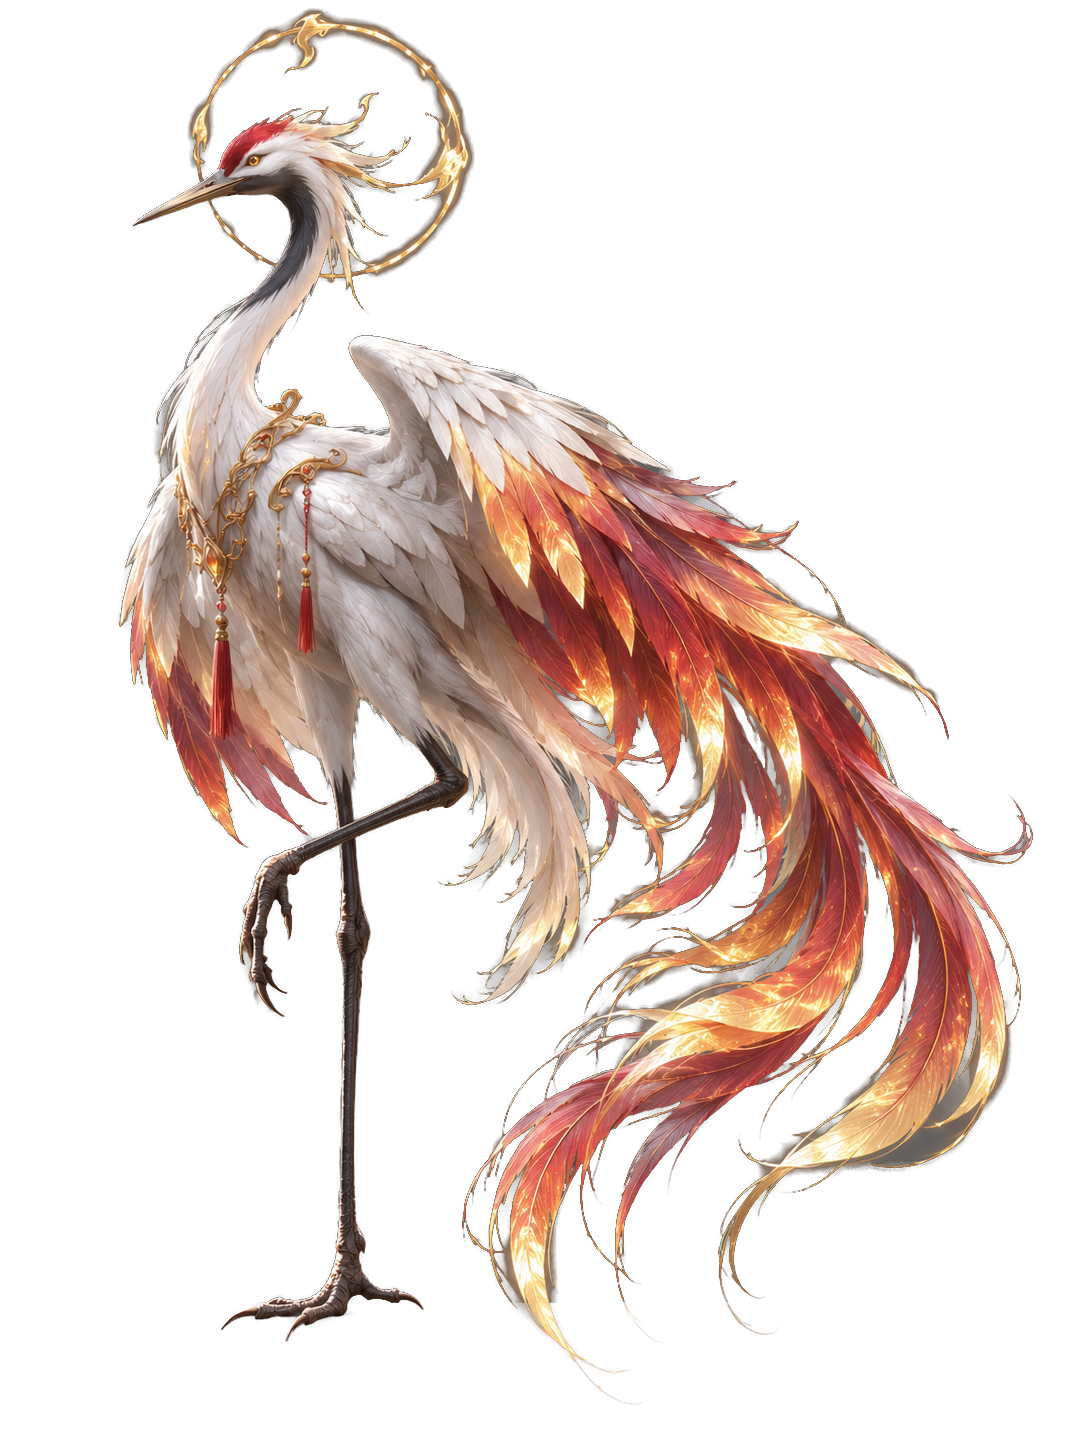
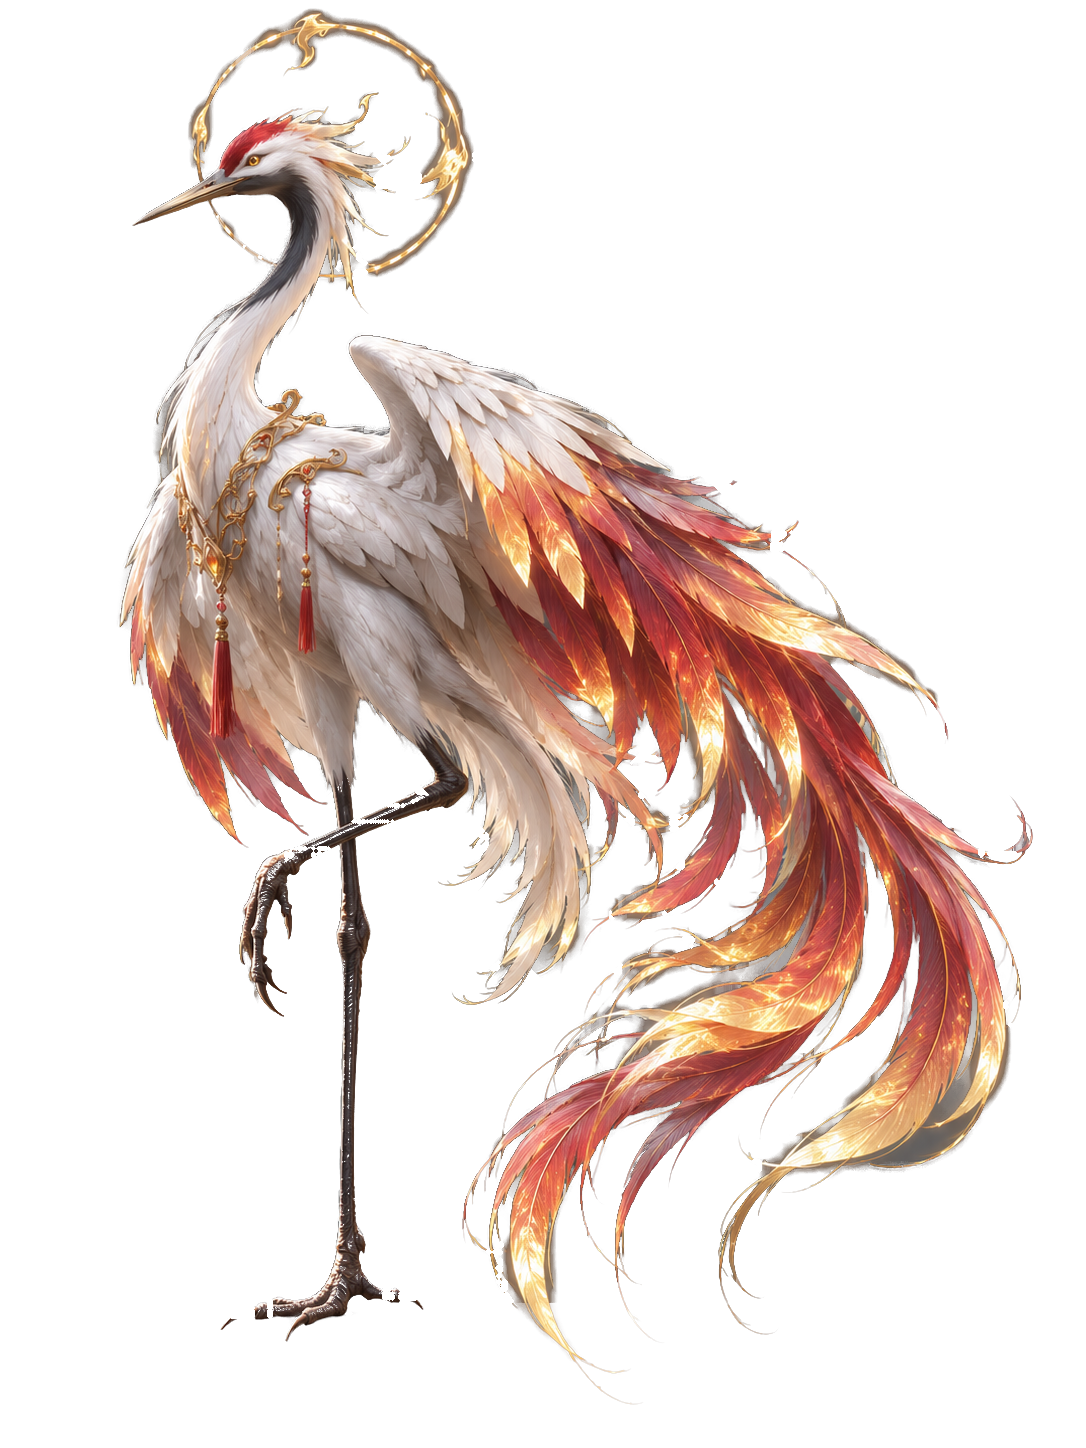
Try-out: painted Mountainback, Tidewhale, Lantern Lord and Scroll Sage
The cut-out now measures the ground against each edge on its own and
drops floor seams the model kept.

Claude-Session: https://claude.ai/code/session_01LS9mE4p1eE4rKWUq3Pq8eE

diff --git a/src/world.ts b/src/world.ts
@@ -17,6 +17,10 @@ import binderMale from "./art/binder-male.webp";
 import shoresArt from "./art/shores.webp";
 import stormhound from "./art/stormhound.webp";
 import sunplume from "./art/sunplume.webp";
+import mountainback from "./art/mountainback.webp";
+import tidewhale from "./art/tidewhale.webp";
+import lanternlord from "./art/lanternlord.webp";
+import scrollsage from "./art/scrollsage.webp";
 import { DARK, INK, buildBinder, buildCard, cardTime, buildSpirit, lit, setGlow, type Model } from "./spirit-models";
 
 export type Place = RealmId | "home";
@@ -320,10 +324,14 @@ type Actor = {
 /** Places that have a painted backdrop in the darker look: picture and its shape. */
 const BACKDROPS: Partial<Record<Place, [string, number]>> = { shores: [shoresArt, 1672 / 941], home: [shoresArt, 1672 / 941] };
 const paintings = new Map<string, THREE.Texture>();
-/** Spirits that have a painting in the darker look: picture, its shape, its height. */
-const PAINTED: Record<string, [string, number, number]> = {
+/** Spirits that have a painting in the darker look: picture, its shape, its height, how high it floats. */
+const PAINTED: Record<string, [string, number, number, number?]> = {
   tidepup: [stormhound, 895 / 1100, 2.5],
-  emberwing: [sunplume, 722 / 1100, 2.9],
+  emberwing: [sunplume, 721 / 1100, 2.9],
+  shellsage: [mountainback, 885 / 1100, 2.7],
+  tidewhale: [tidewhale, 1956 / 1100, 2.3, 0.9],
+  lanternwisp: [lanternlord, 749 / 1100, 2.2, 0.7],
+  inkmonkey: [scrollsage, 742 / 1100, 2.6],
 };
 const BINDER_ART: [string, number] =
   typeof location !== "undefined" && new URLSearchParams(location.search).get("binder") === "m"
@@ -755,7 +763,7 @@ export class World {
     this.main = !id
       ? null
       : art
-        ? this.actor(buildCard(art[0], art[1], art[2]), tall ? new THREE.Vector3(0.7, 0, 0) : MAIN, 0, 1, spirit(id).element)
+        ? this.actor(buildCard(art[0], art[1], art[2], false, art[3]), tall ? new THREE.Vector3(0.7, 0, 0) : MAIN, 0, 1, spirit(id).element)
         : this.actor(
             buildSpirit(spirit(id), stage),
             tall ? new THREE.Vector3(0.7, 0, 0) : MAIN,
@@ -772,7 +780,7 @@ export class World {
     this.ally = !id
       ? null
       : art
-        ? this.actor(buildCard(art[0], art[1], art[2] * 0.72, true), new THREE.Vector3(-0.75, 0, 1.3), 0, 1, spirit(id).element)
+        ? this.actor(buildCard(art[0], art[1], art[2] * 0.72, true, (art[3] ?? 0) * 0.72), new THREE.Vector3(-0.75, 0, 1.3), 0, 1, spirit(id).element)
         : this.actor(buildSpirit(spirit(id), stage), ALLY, 0.7, 0.75, spirit(id).element);
   }
   /** Spirits gathered around the binder on the home screen. */

diff --git a/src/spirit-models.ts b/src/spirit-models.ts
@@ -832,7 +832,8 @@ const cardTextures = new Map<string, THREE.Texture>();
  * A figure from a painting, cut out and stood on the stage facing the eye.
  * Its hair and cloth drift a little, more the further they are from its core.
  */
-export function buildCard(url: string, aspect: number, height: number, flip = false): Model {
+/** `lift` raises a spirit that floats off the ground. */
+export function buildCard(url: string, aspect: number, height: number, flip = false, lift = 0): Model {
   let map = cardTextures.get(url);
   if (!map) {
     map = new THREE.TextureLoader().load(url);
@@ -841,7 +842,7 @@ export function buildCard(url: string, aspect: number, height: number, flip = fa
     cardTextures.set(url, map);
   }
   const geo = new THREE.PlaneGeometry(height * aspect, height, 14, 20);
-  geo.translate(0, height / 2, 0);
+  geo.translate(0, height / 2 + lift, 0);
   const material = new THREE.MeshBasicMaterial({ map, transparent: true, alphaTest: 0.02, side: THREE.DoubleSide });
   material.onBeforeCompile = (shader) => {
     shader.uniforms.cardTime = cardTime;

diff --git a/art-src/cut2.py b/art-src/cut2.py
@@ -8,12 +8,25 @@ out = Image.open(cut).convert("RGBA")
 a = np.asarray(out).astype(np.float32)
 h, w, _ = rgb.shape
 # The ground colour, row by row, from the picture's left and right edges.
-edge = np.concatenate([rgb[:, :12], rgb[:, -12:]], axis=1).mean(axis=1)[:, None, :]
-dist = np.abs(rgb - edge).max(axis=2)
+# Measured against each edge on its own, so a tail that touches one edge doesn't colour the row.
+dist = np.minimum(*[np.abs(rgb - side.mean(axis=1)[:, None, :]).max(axis=2) for side in (rgb[:, :12], rgb[:, -12:])])
 key = np.clip((dist - 14) / 22, 0, 1) * 255
 key[int(h * 0.9):] = 0
 key = np.asarray(Image.fromarray(key.astype(np.uint8)).filter(ImageFilter.MedianFilter(3))).astype(np.float32)
+# A seam where floor meets wall keys as a long thin horizontal line: drop anything under 9px tall.
+from scipy.ndimage import grey_opening
+key = grey_opening(key, size=(9, 1))
 alpha = np.maximum(a[..., 3], key)
+# Away from the body, anything the model kept that is the ground's own colour (a floor seam,
+# the rim of a shadow) goes.
+from scipy.ndimage import binary_opening, binary_dilation
+body = binary_dilation(binary_opening(a[..., 3] > 128, iterations=26), iterations=30)
+alpha = np.where(body, alpha, alpha * np.clip((dist - 8) / 14, 0, 1))
+# A long, thin, level stroke outside the body is a floor seam, not a hair.
+level = grey_opening(alpha, size=(1, 90))
+seam = (level > 20) & (grey_opening(alpha, size=(11, 1)) < 20) & ~body
+seam = binary_dilation(seam, iterations=2) & ~body
+alpha = np.where(seam, 0, alpha)
 res = np.dstack([rgb, alpha]).astype(np.uint8)
 im = Image.fromarray(res, "RGBA"); im.save(dst)
 prev = Image.new("RGB", (w * 2, h), (30, 38, 50)); prev.paste(Image.new("RGB", (w, h), (235, 225, 205)), (w, 0))
